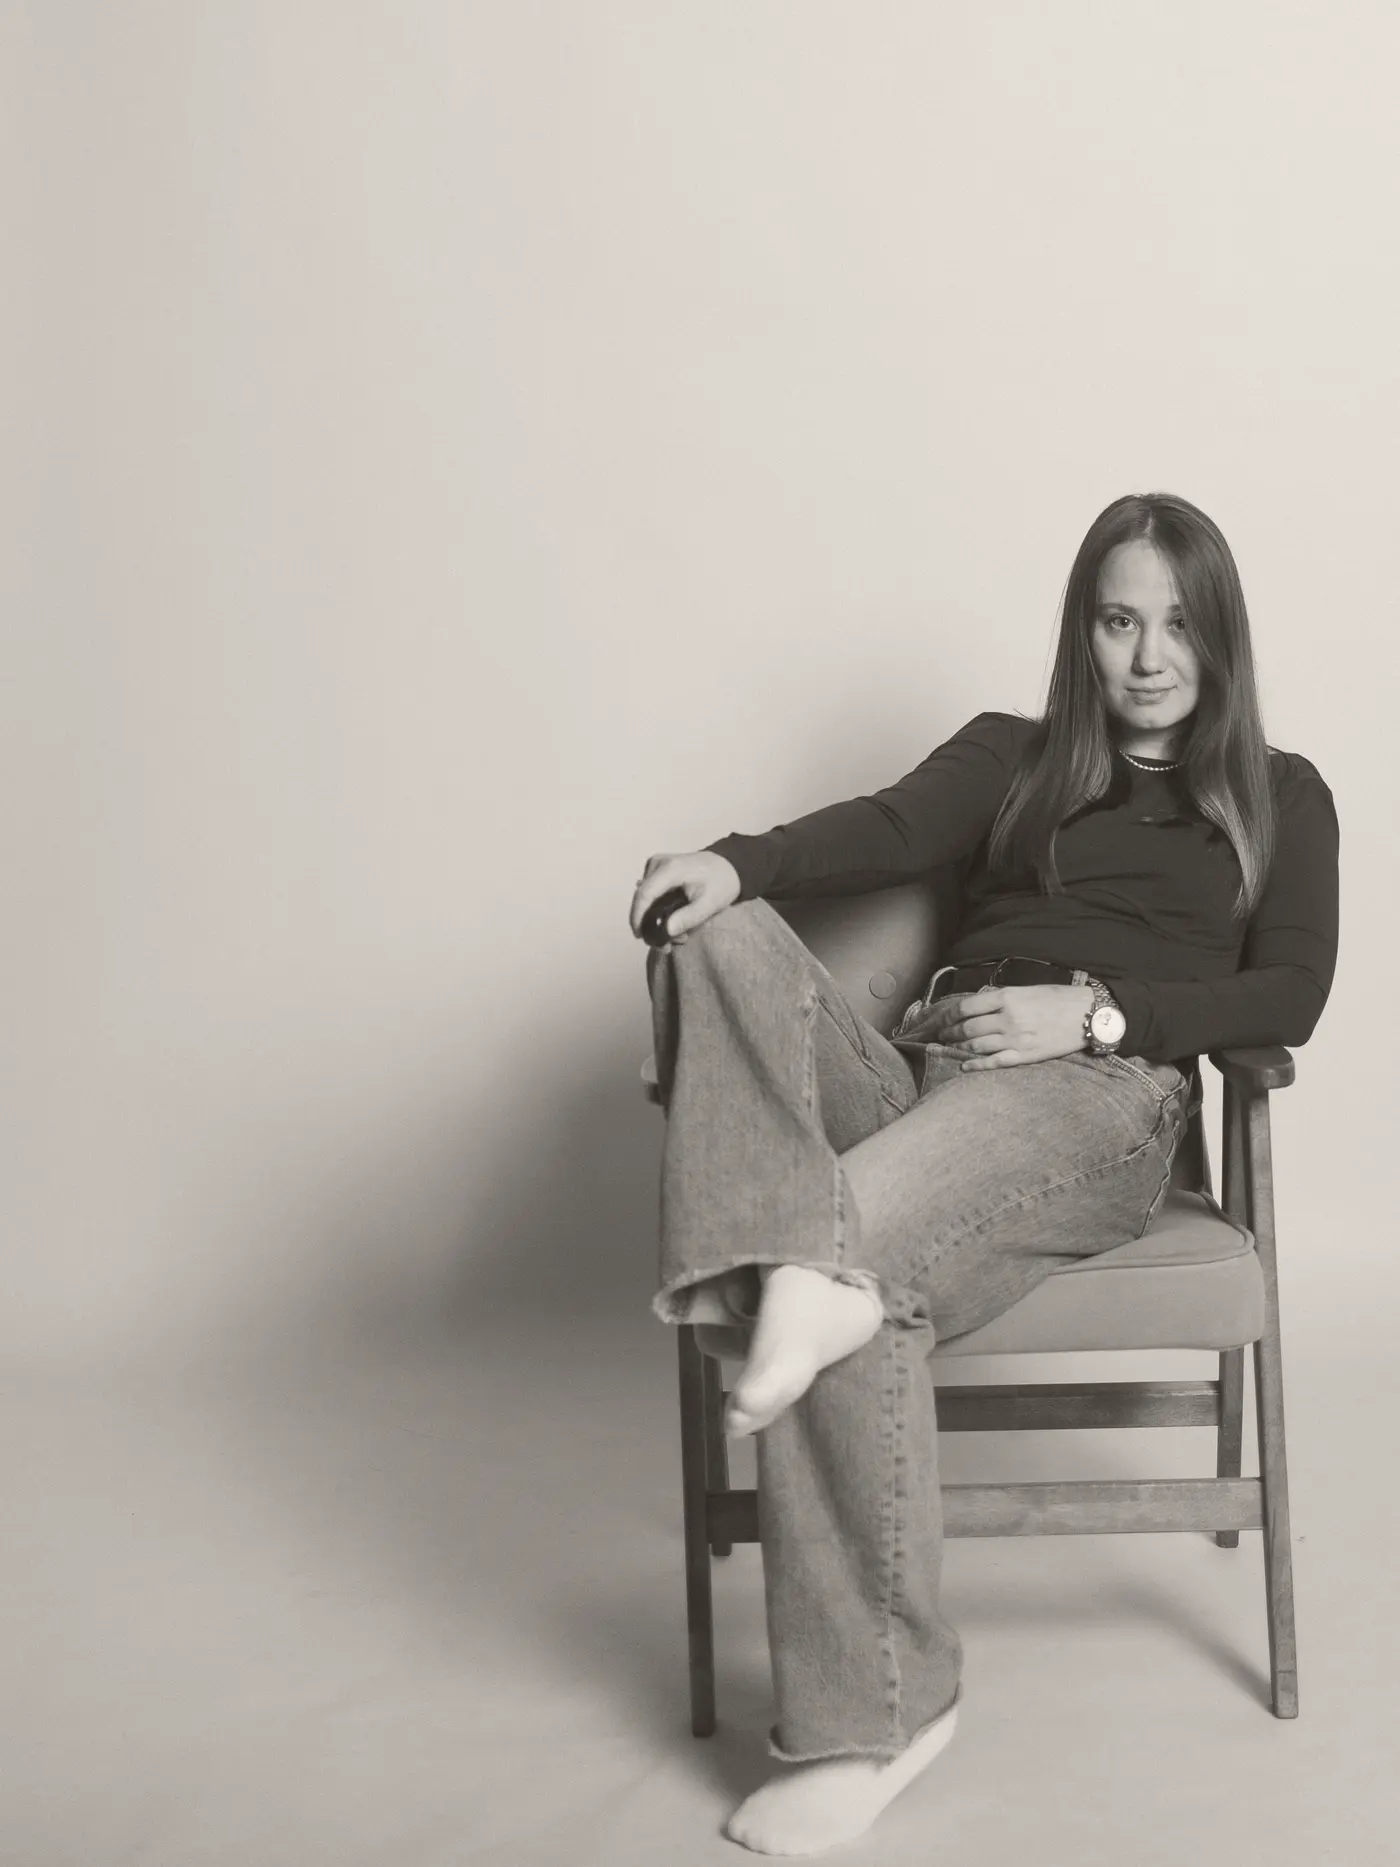
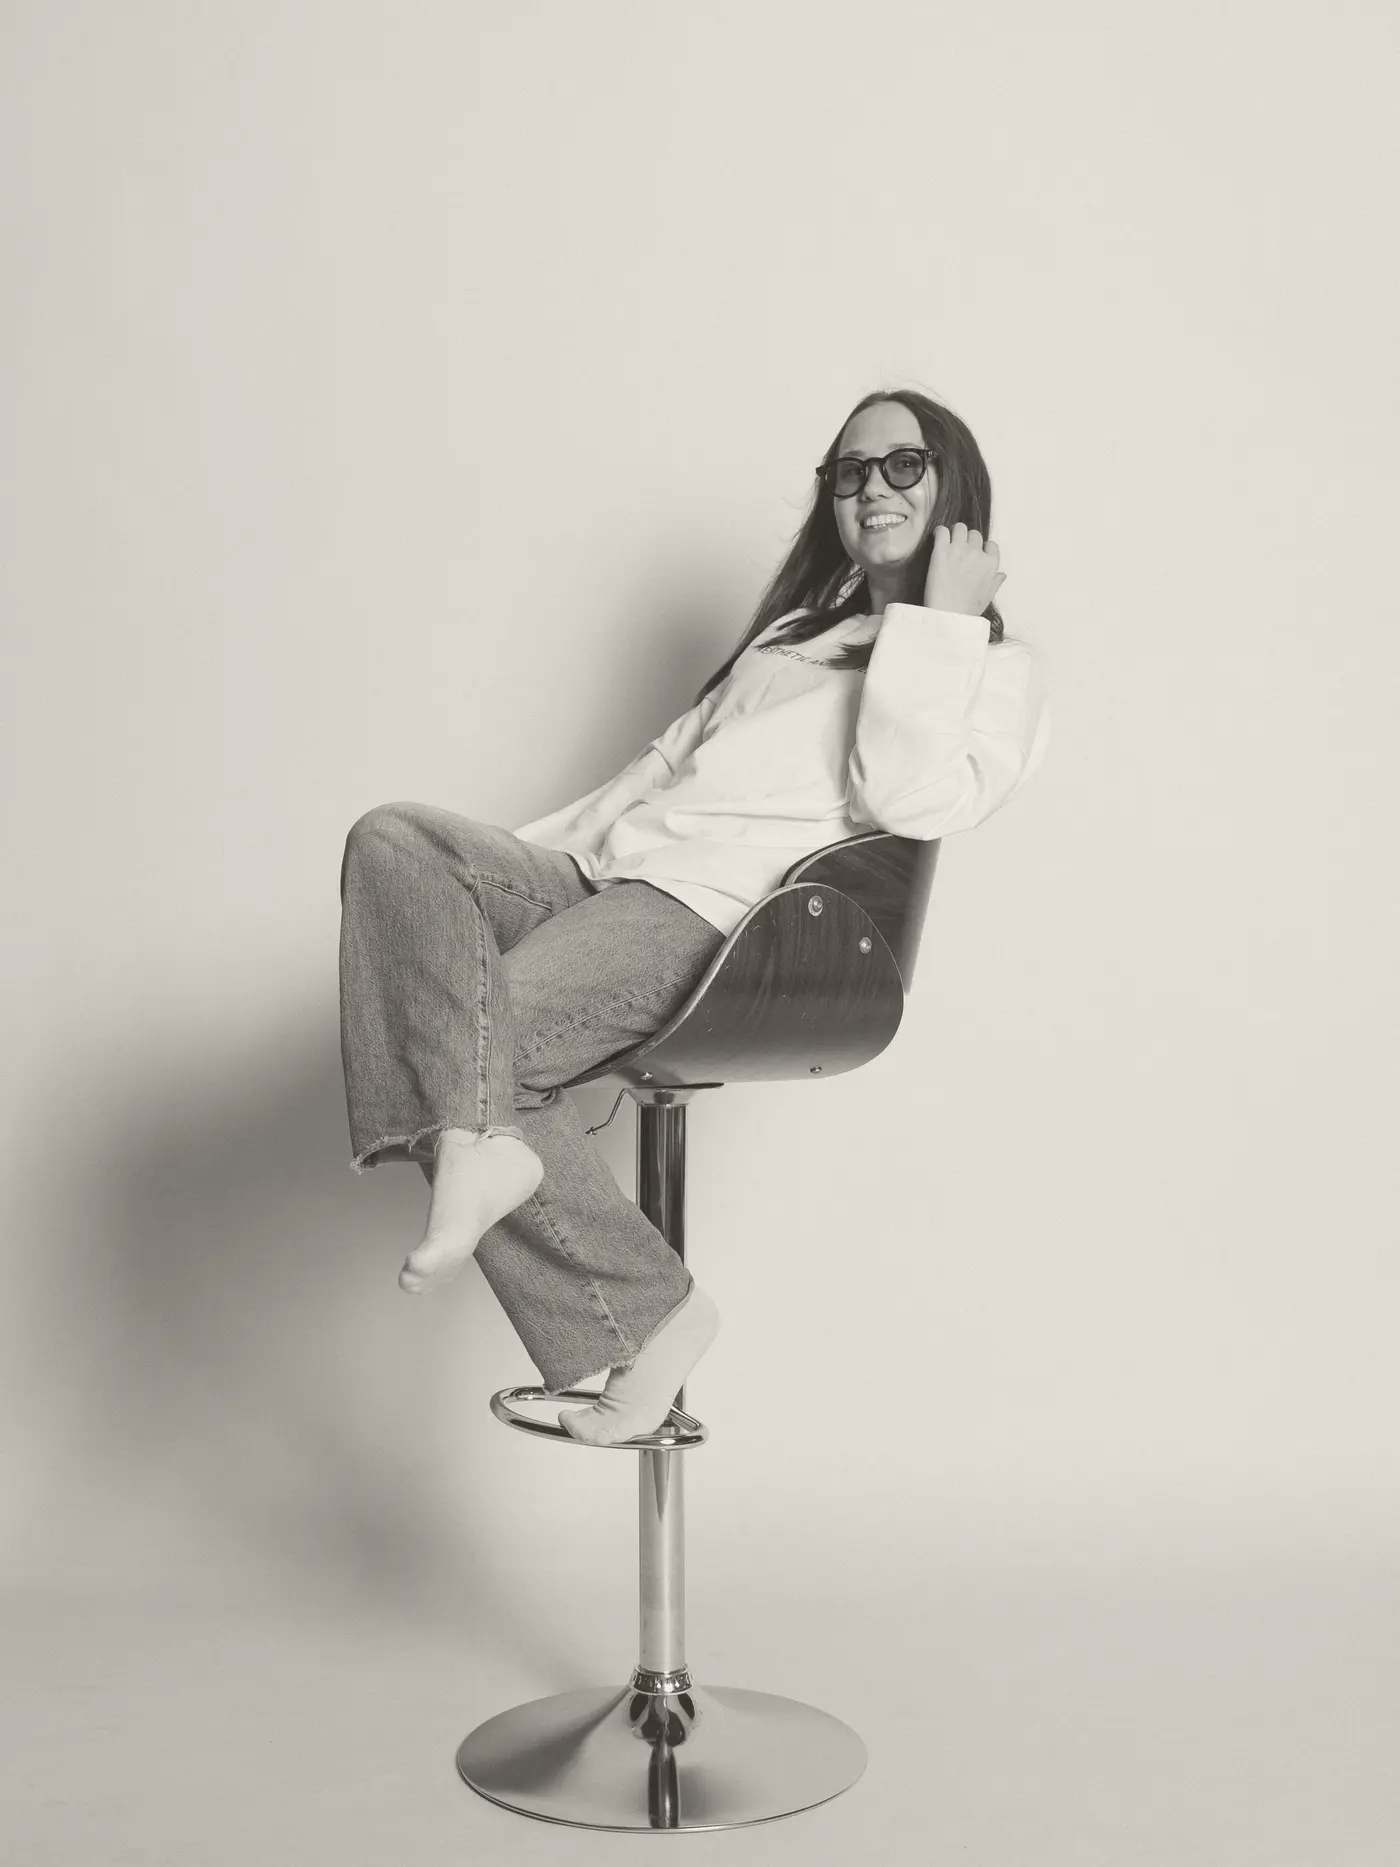
Use IMG_8729 as the psychologists page hero photo
Claude-Session: https://claude.ai/code/session_0146wk3E6avDQtWMRtqKs2zw

diff --git a/psychologists/index.html b/psychologists/index.html
@@ -75,7 +75,7 @@
         <figure class="phero__figure reveal">
           <picture>
             <source type="image/webp" srcset="/images/pro-hero-640.webp 640w, /images/pro-hero-1000.webp 1000w, /images/pro-hero-1400.webp 1400w" sizes="(max-width: 860px) 90vw, 40vw" />
-            <img src="/images/pro-hero-1000.jpg" width="1000" height="1333" alt="Екатерина Чубиряева уверенно сидит в кресле и смотрит в камеру" fetchpriority="high" />
+            <img src="/images/pro-hero-1000.jpg" width="1000" height="1333" alt="Екатерина Чубиряева смеётся, сидя на высоком стуле и закинув ногу на ногу" fetchpriority="high" />
           </picture>
         </figure>
       </div>
